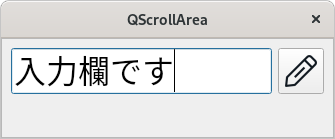
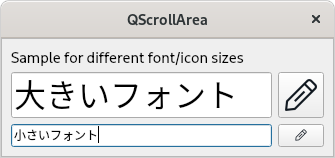
update

diff --git a/qt_scrollarea.py b/qt_scrollarea.py
@@ -1,3 +1,6 @@
+#!/usr/bin/env python
+# coding: utf-8
+
 import sys
 from PySide6.QtCore import (
     QSize,
@@ -10,6 +13,7 @@ from PySide6.QtGui import (
 from PySide6.QtWidgets import (
     QApplication,
     QGridLayout,
+    QLabel,
     QLineEdit,
     QPushButton,
     QScrollArea,
@@ -35,26 +39,52 @@ class Example(QScrollArea):
         grid = QGridLayout()
         base.setLayout(grid)
 
-        # Font Size
-        font_size: int = 24
-        # Font Pixel
-        font_pixel: int = int(font_size * QPaintDevice.physicalDpiY(self) / 72)
-        # Font object
-        font = QFont()
-        font.setPointSize(font_size)
-
         # QLineEdit (Entry)
-        ledit = QLineEdit()
-        ledit.setSizePolicy(QSizePolicy.Expanding, QSizePolicy.Expanding)
-        ledit.setFont(font)
-        grid.addWidget(ledit, 0, 0)
+        label_0 = QLabel('Sample for different font/icon sizes')
+        label_0.setSizePolicy(QSizePolicy.Expanding, QSizePolicy.Expanding)
+        grid.addWidget(label_0, 0, 0, 1, 2)
 
-        # QPushButton
-        button = QPushButton()
-        button.setIcon(QIcon('pencil.png'))
-        button.setIconSize(QSize(font_pixel, font_pixel))
-        button.setSizePolicy(QSizePolicy.Fixed, QSizePolicy.Expanding)
-        grid.addWidget(button, 0, 1)
+        # Font Size - Large
+        font_size_1: int = 24
+        # Font Pixel
+        font_pixel_1: int = int(font_size_1 * QPaintDevice.physicalDpiY(self) / 72)
+        # Font object
+        font_1 = QFont()
+        font_1.setPointSize(font_size_1)
+
+        # QLineEdit (1)
+        ledit_1 = QLineEdit()
+        ledit_1.setSizePolicy(QSizePolicy.Expanding, QSizePolicy.Expanding)
+        ledit_1.setFont(font_1)
+        grid.addWidget(ledit_1, 1, 0)
+
+        # QPushButton (1)
+        button_1 = QPushButton()
+        button_1.setIcon(QIcon('pencil.png'))
+        button_1.setIconSize(QSize(font_pixel_1, font_pixel_1))
+        button_1.setSizePolicy(QSizePolicy.Fixed, QSizePolicy.Expanding)
+        grid.addWidget(button_1, 1, 1)
+
+        # Font Size - Small
+        font_size_2: int = 9
+        # Font Pixel
+        font_pixel_2: int = int(font_size_2 * QPaintDevice.physicalDpiY(self) / 72)
+        # Font object
+        font_2 = QFont()
+        font_2.setPointSize(font_size_2)
+
+        # QLineEdit (2)
+        ledit_2 = QLineEdit()
+        ledit_2.setSizePolicy(QSizePolicy.Expanding, QSizePolicy.Expanding)
+        ledit_2.setFont(font_2)
+        grid.addWidget(ledit_2, 2, 0)
+
+        # QPushButton (2)
+        button_2 = QPushButton()
+        button_2.setIcon(QIcon('pencil.png'))
+        button_2.setIconSize(QSize(font_pixel_1, font_pixel_2))
+        button_2.setSizePolicy(QSizePolicy.Fixed, QSizePolicy.Expanding)
+        grid.addWidget(button_2, 2, 1)
 
 
 def main():
